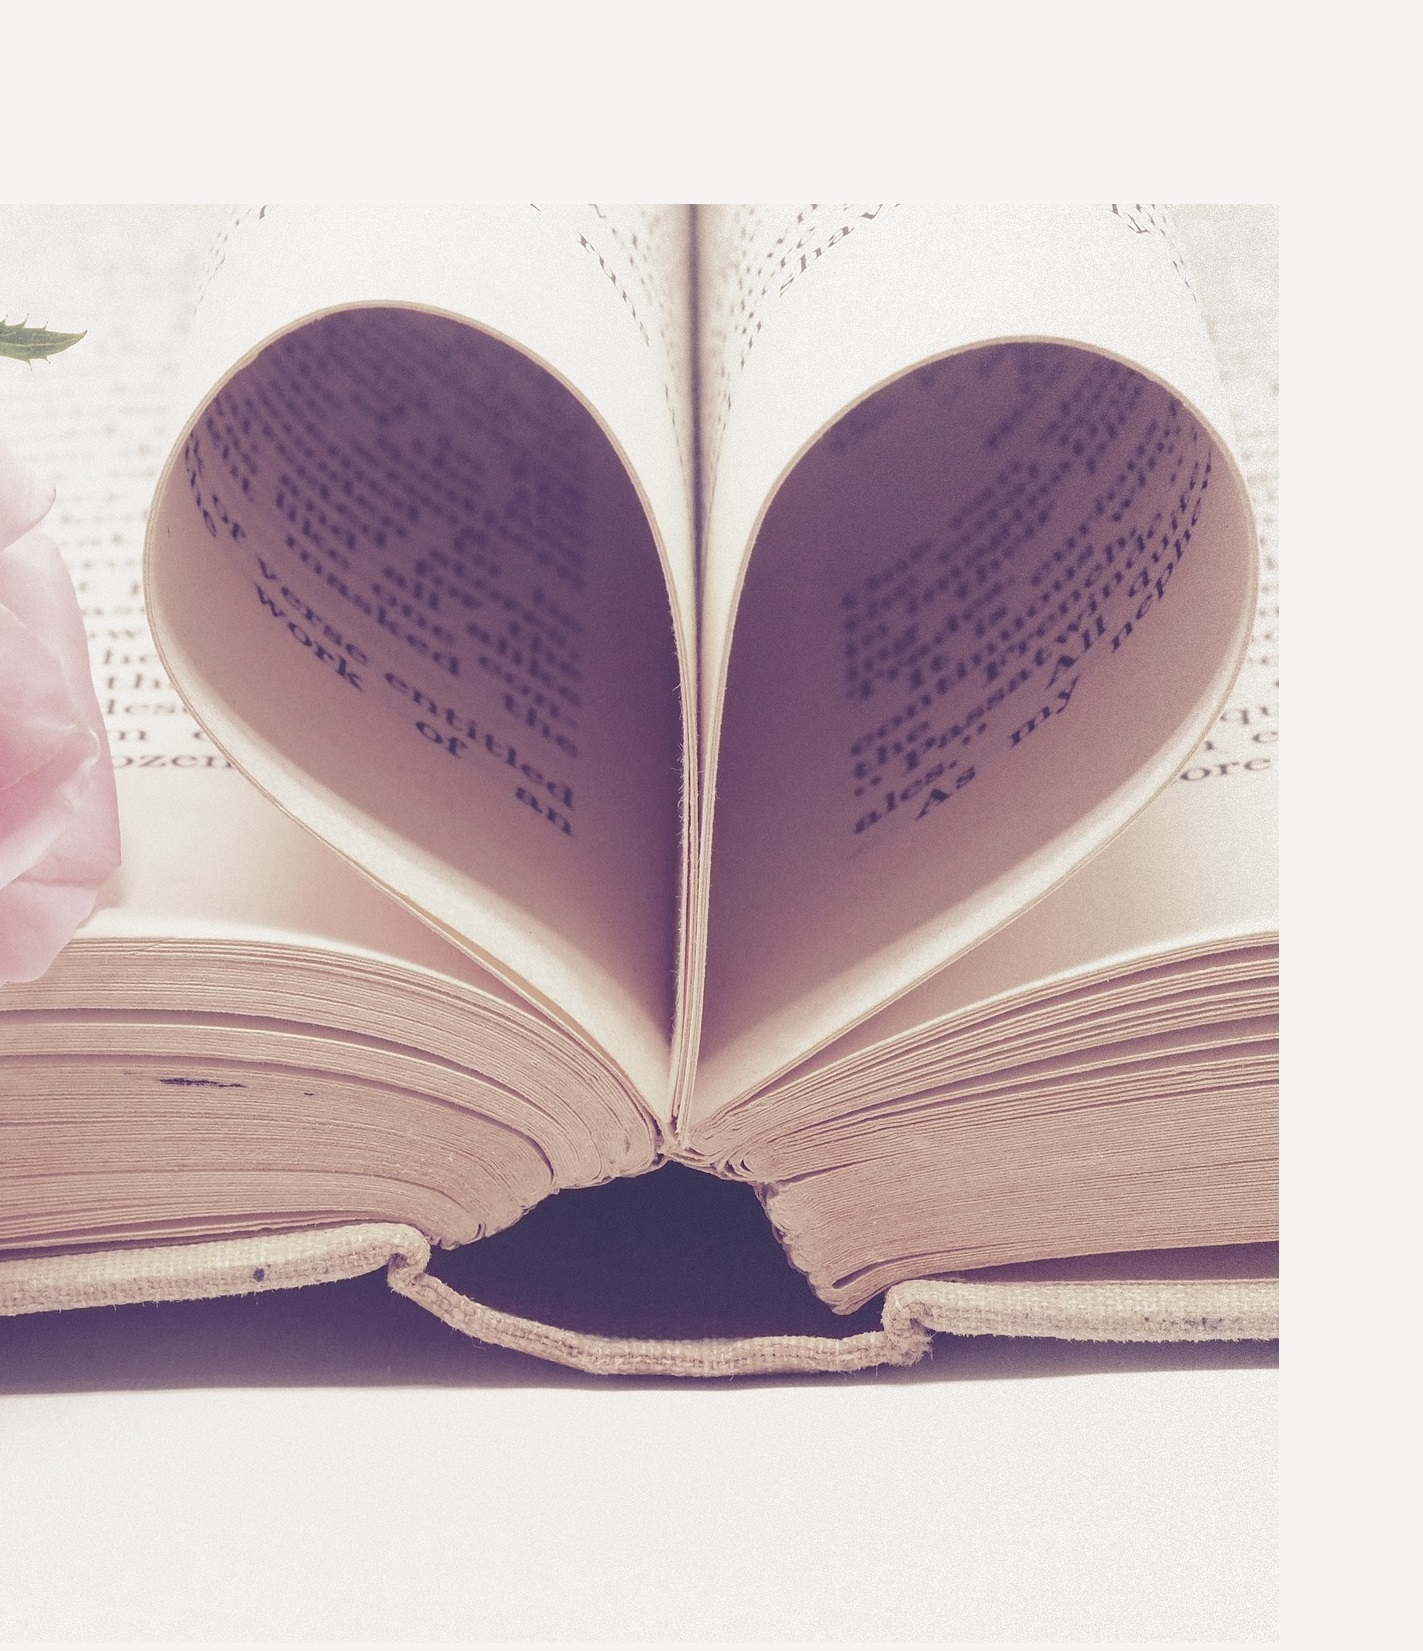
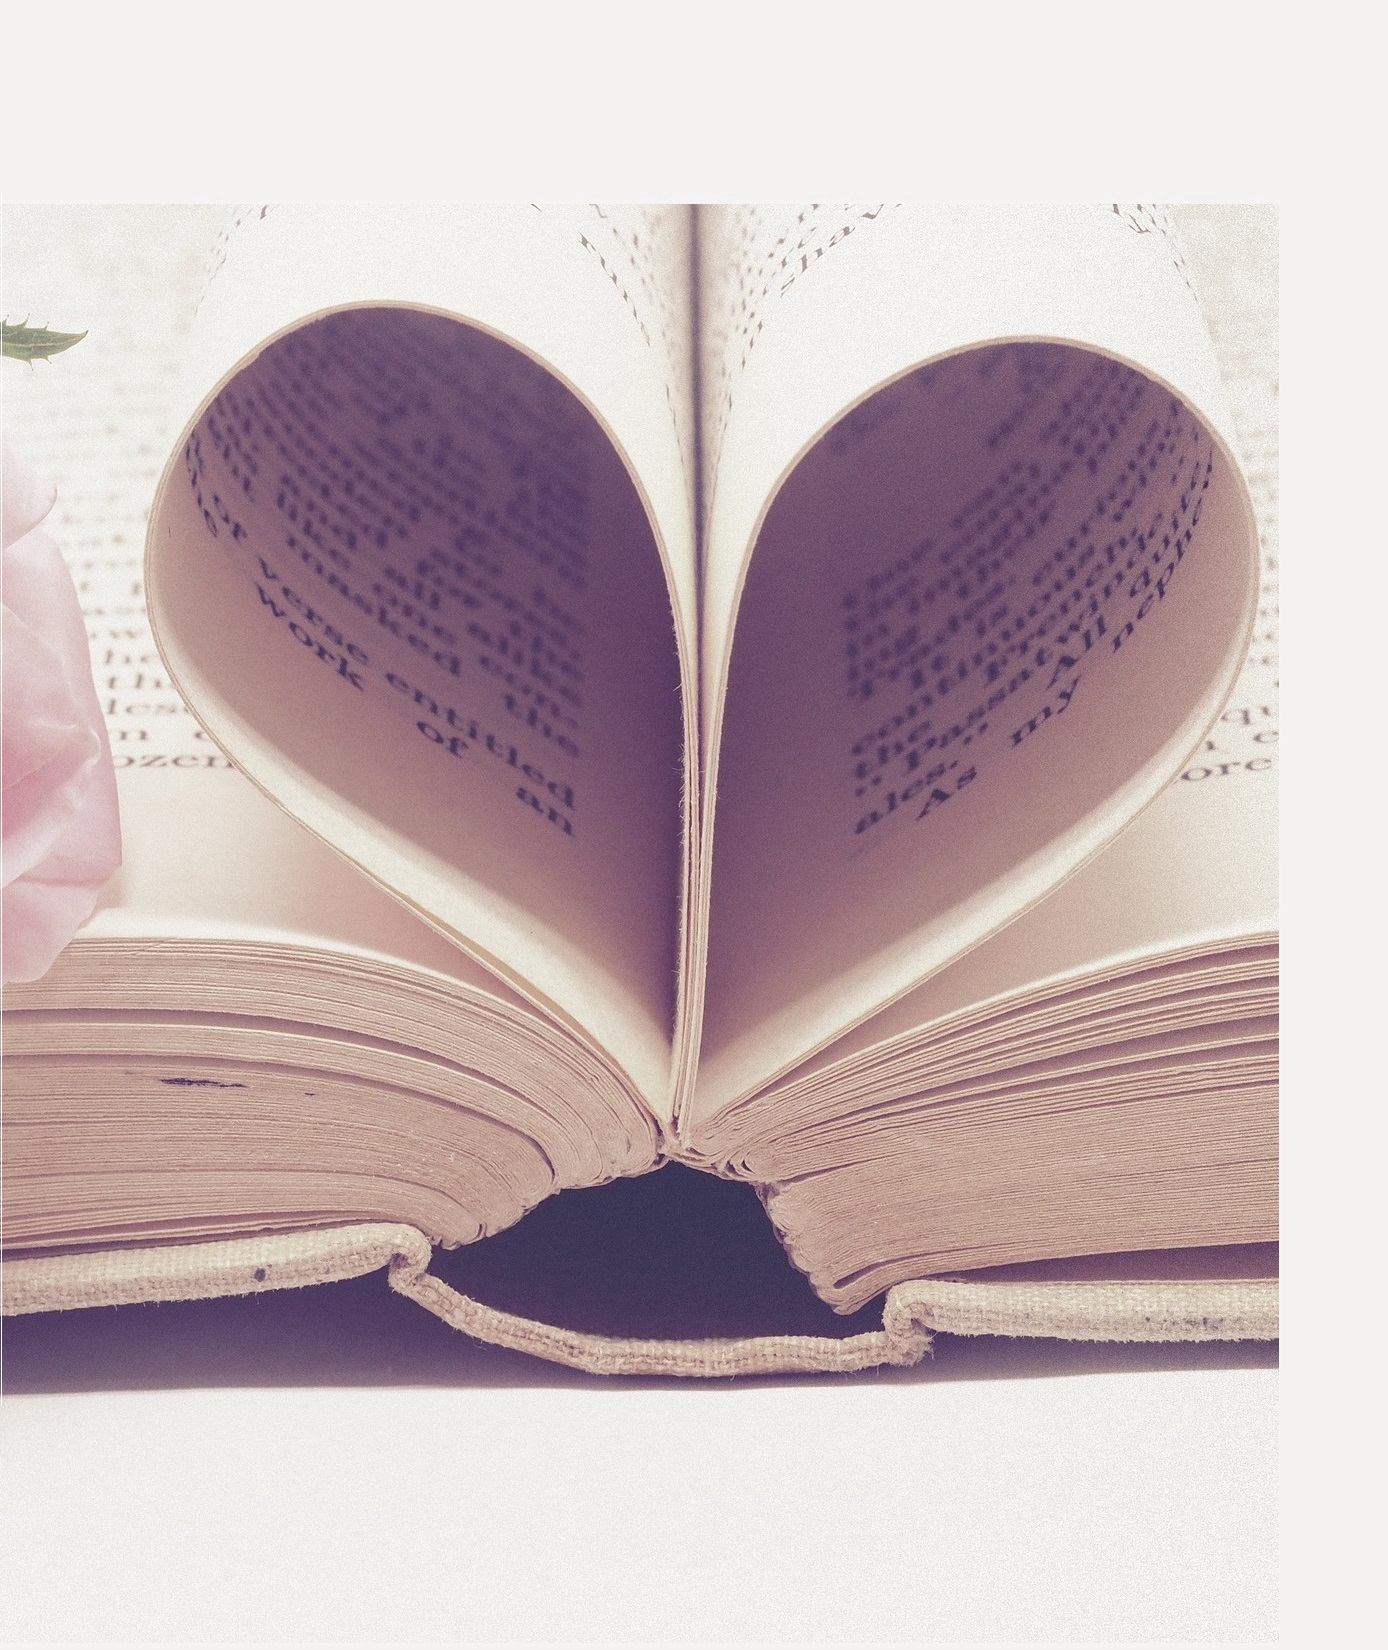
Cambio imagens

diff --git a/assets/css/styles.css b/assets/css/styles.css
@@ -7,7 +7,8 @@
 
 @media (max-width: 480px) {
     #hero-bg-static {
-        background-image: url(../images/paraelCelu2.jpg);
+        content: Hola;
+        background-image: url(../images/bg-hero-staticG.jpg);
     }
     .h-100 {
         height: 92%;
